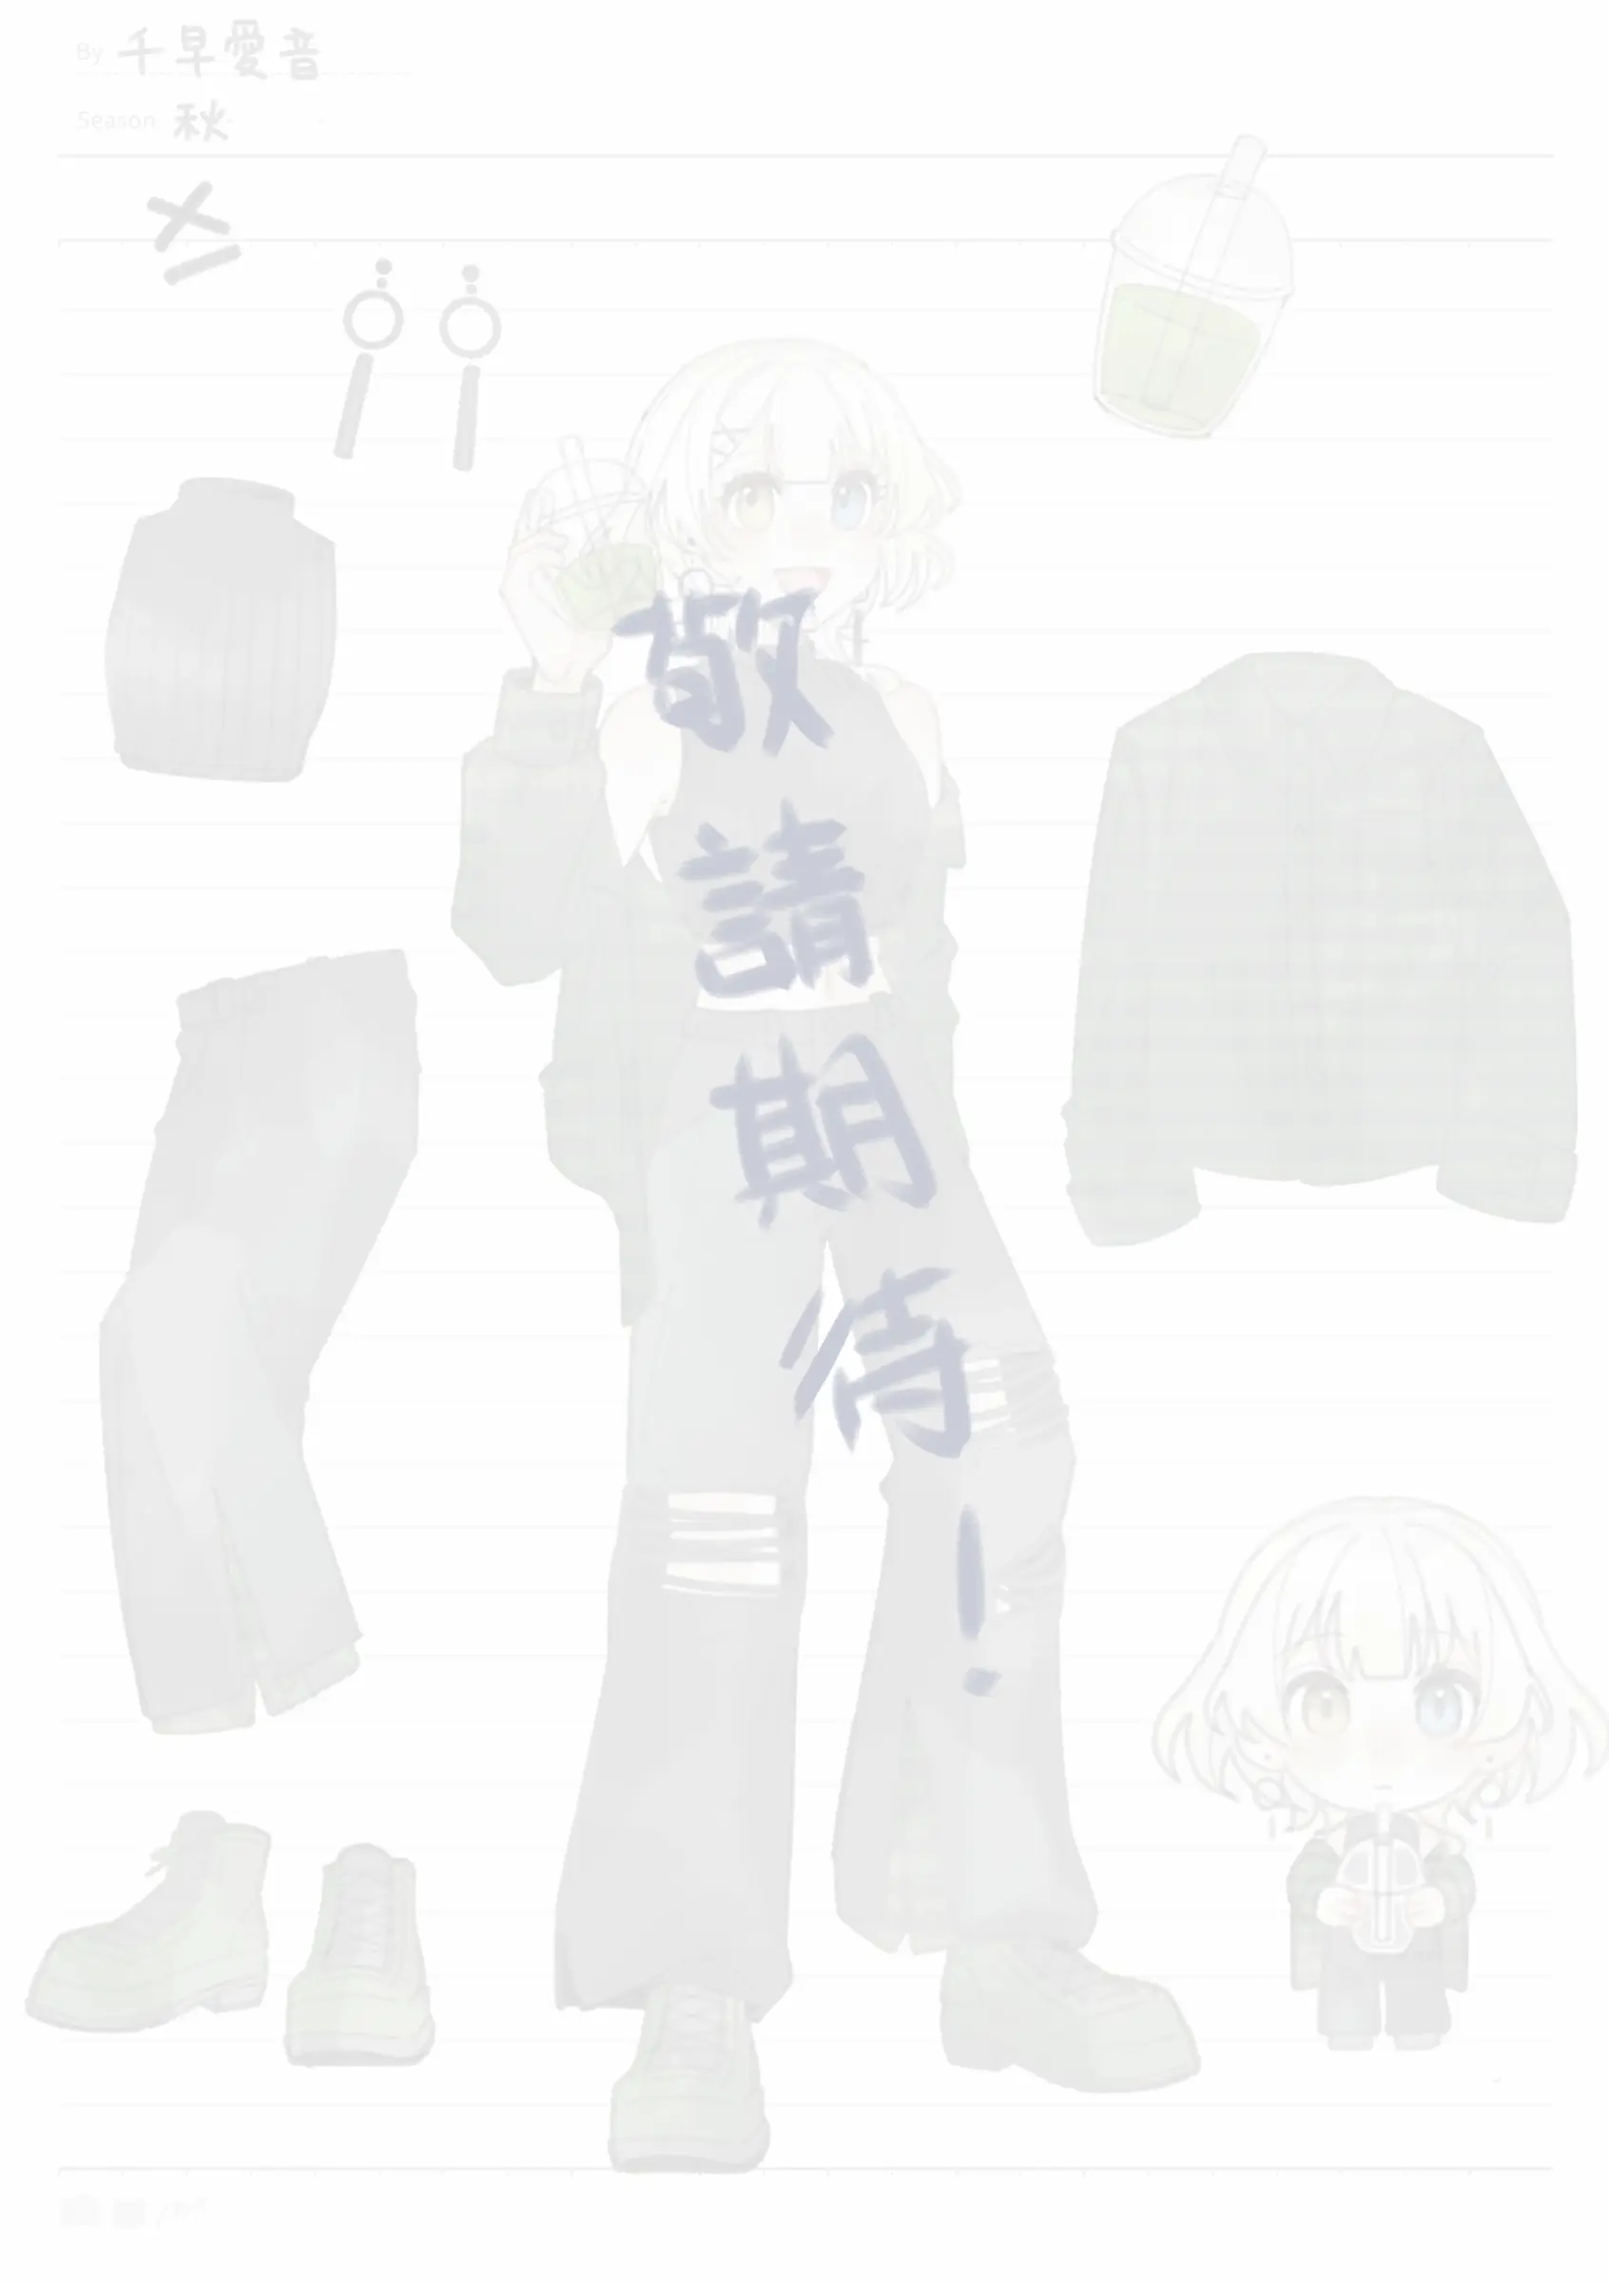
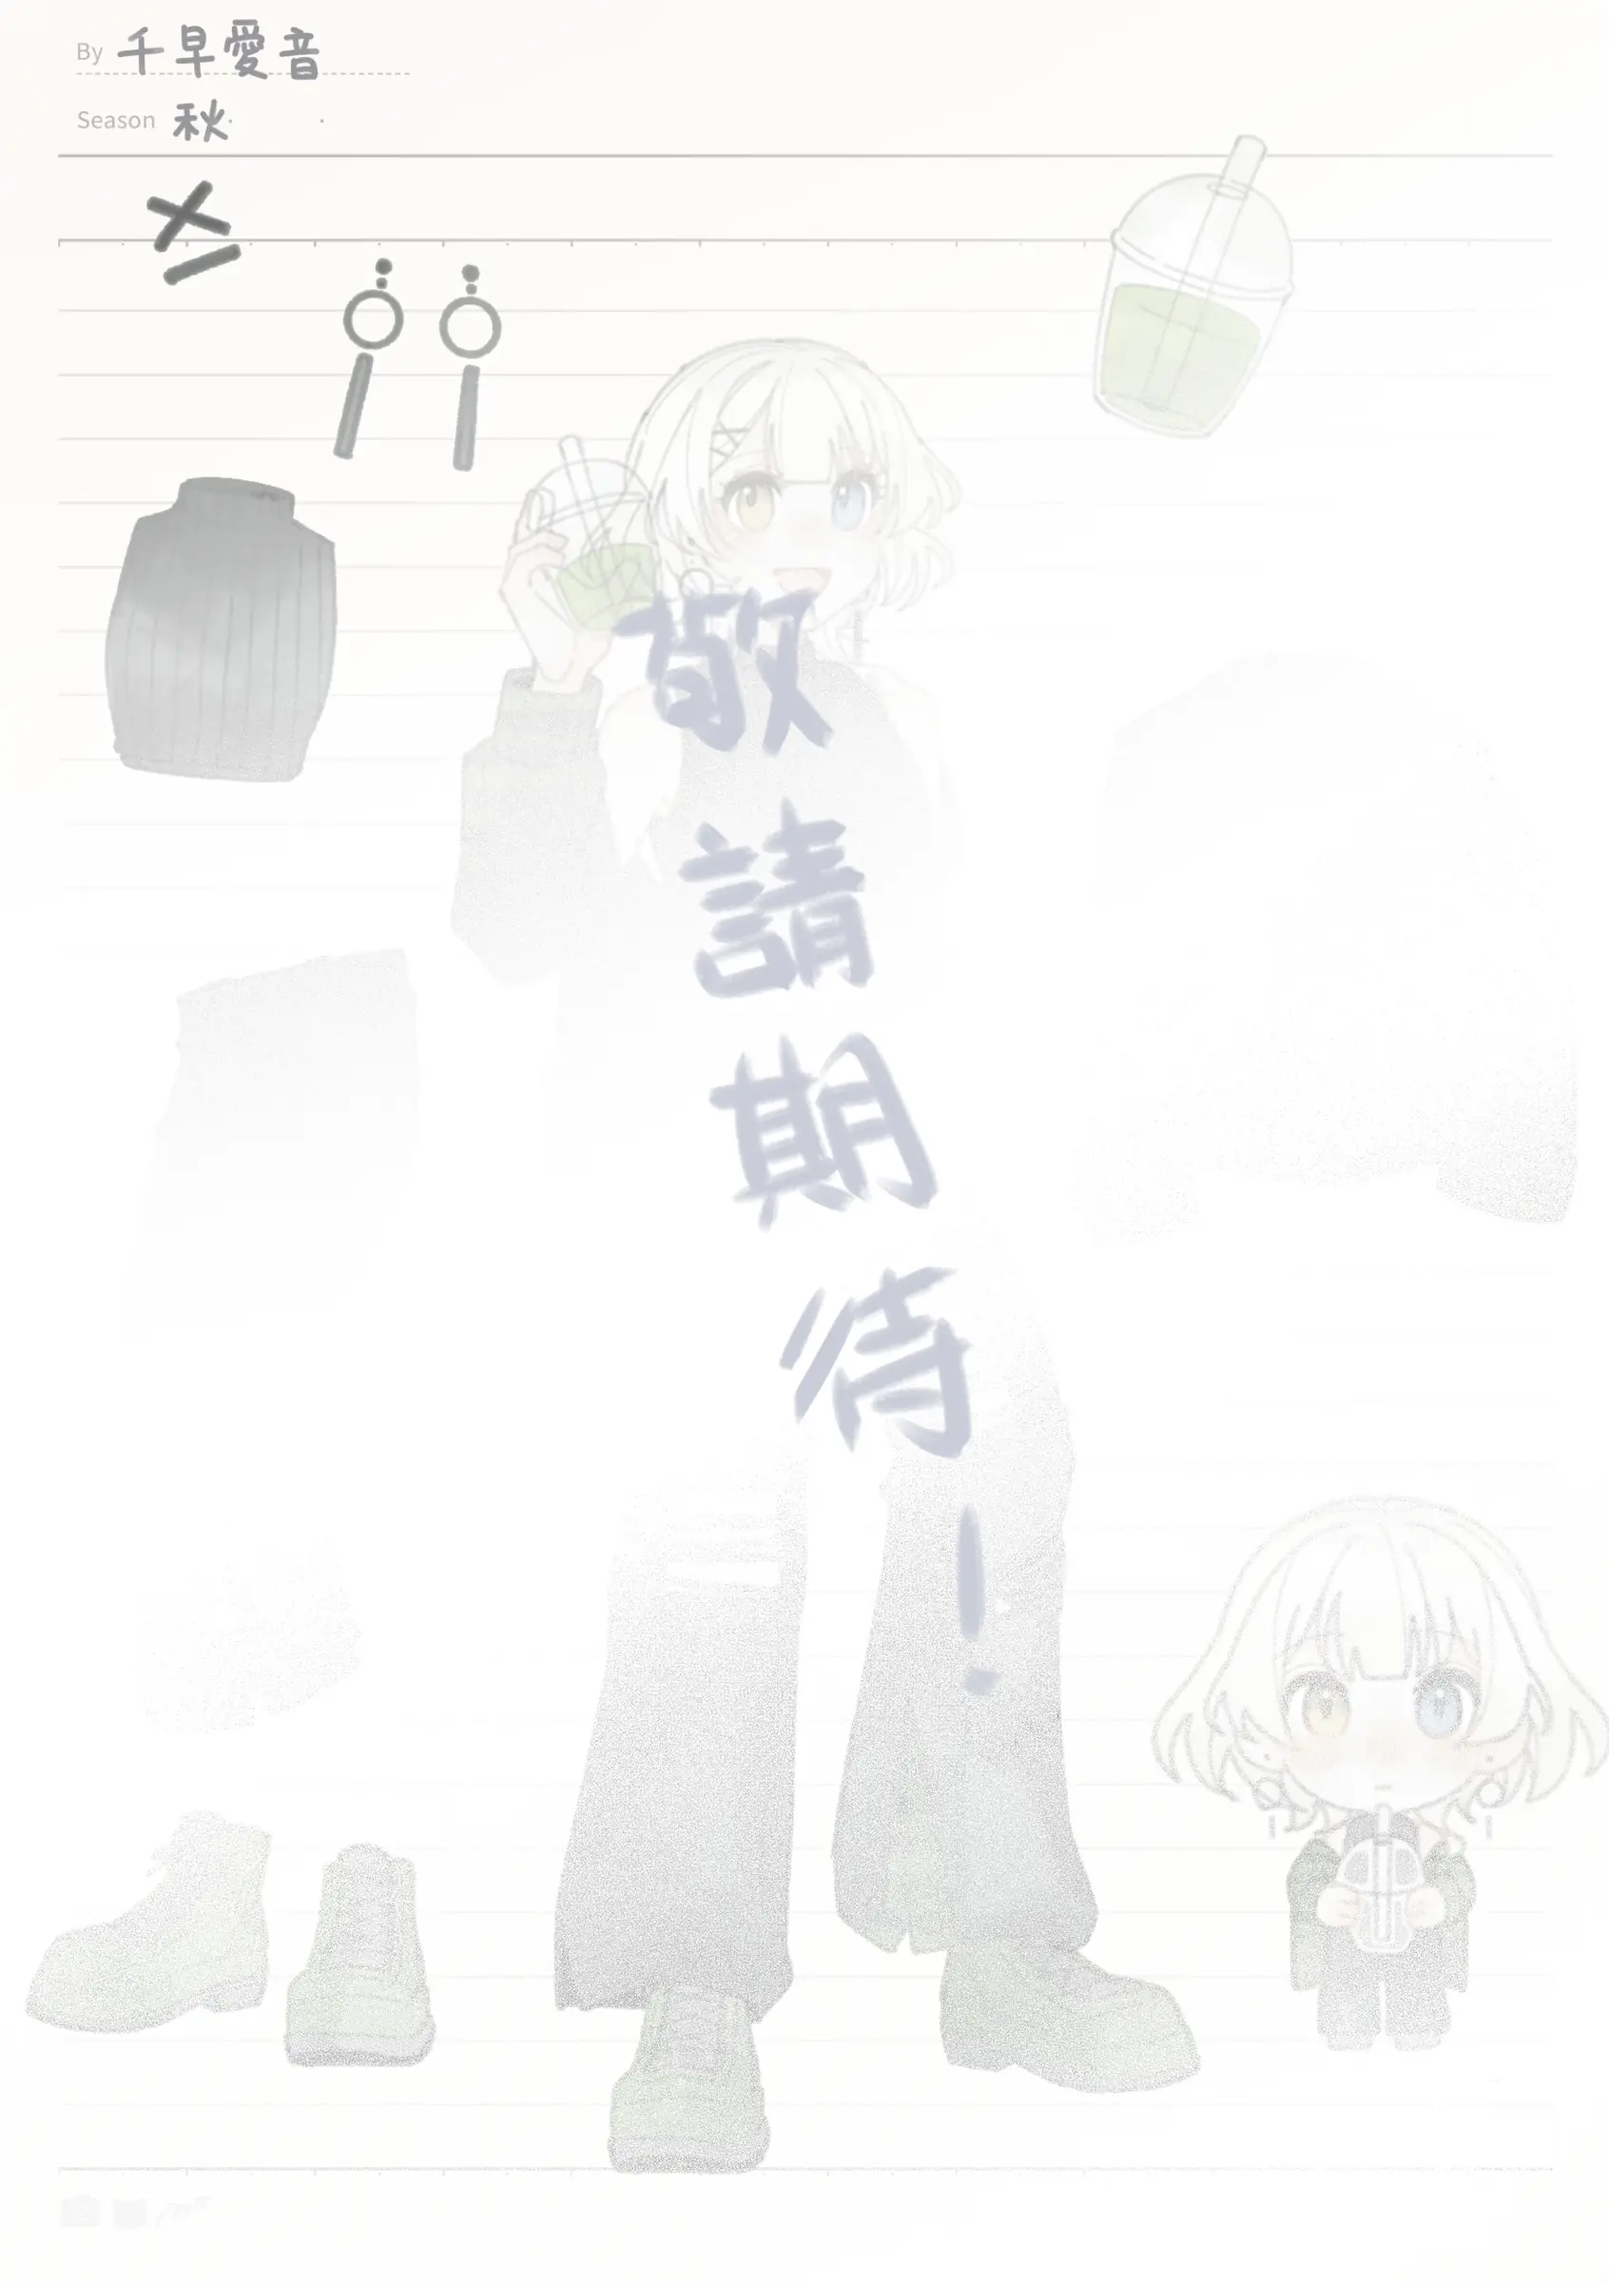
Use 浮水印2.png as the cover layer on 敬請期待 pages

diff --git a/convert.py b/convert.py
@@ -24,7 +24,7 @@ WATERMARK = HERE / '浮水印.png'
 WATERMARK_PAGES = range(7, 25)   # 第 7～24 頁蓋浮水印（PDF 頁碼，含頭尾）
 WATERMARK_OPACITY = {}   # 個別頁面的浮水印透明度（沒列出的是 100%）
 WHITE_PAGES = set(range(15, 25))   # 第 15～24 頁蓋成白頁（敬請期待）
-WHITE_OPACITY = 0.88                # 白底的不透明度（1 = 完全蓋住，0.88 = 隱約透出原圖）
+WHITE_PAGE_COVER = HERE / '浮水印2.png'   # 白底頁先整張蓋上這張圖（100%）
 WHITE_PAGE_IMAGE = HERE / '期待.png'   # 全白頁中間放的圖（和頁面同比例的透明畫布，會自動置中）
 WHITE_PAGE_IMAGE_SCALE = 0.7          # 圖的大小（1 = 原圖大小）
 
@@ -32,9 +32,10 @@ OUT = HERE / 'docs' / 'pages'
 
 
 def white_page(img):
-    """在原圖上蓋一層白底（WHITE_OPACITY），中間放上 WHITE_PAGE_IMAGE 的內容（大小依頁面比例縮放）。"""
+    """在原圖上蓋 WHITE_PAGE_COVER，中間再放上 WHITE_PAGE_IMAGE 的內容（大小依頁面比例縮放）。"""
     size = img.size
-    page = Image.blend(img, Image.new('RGB', size, 'white'), WHITE_OPACITY).convert('RGBA')
+    page = img.convert('RGBA')
+    page.alpha_composite(Image.open(WHITE_PAGE_COVER).convert('RGBA').resize(size, Image.LANCZOS))
     art = Image.open(WHITE_PAGE_IMAGE).convert('RGBA')
     scale = size[1] / art.height * WHITE_PAGE_IMAGE_SCALE
     art = art.crop(art.getchannel('A').getbbox())

diff --git a/README.md b/README.md
@@ -9,7 +9,7 @@
 python convert.py ../預覽合本/合本預覽.pdf
 ```
 
-- 浮水印圖檔：`浮水印.png`、全白頁中間的圖：`期待.png`（都不上傳到 GitHub）
+- 浮水印圖檔：`浮水印.png`、敬請期待頁的底圖：`浮水印2.png`、中間的字：`期待.png`（都不上傳到 GitHub）
 - 要改哪些頁蓋浮水印、透明度、哪些頁全白：修改 `convert.py` 裡的 `WATERMARK_PAGES`、`WATERMARK_OPACITY`、`WHITE_PAGES`
 - 改完 commit + push，網站就會更新
 
